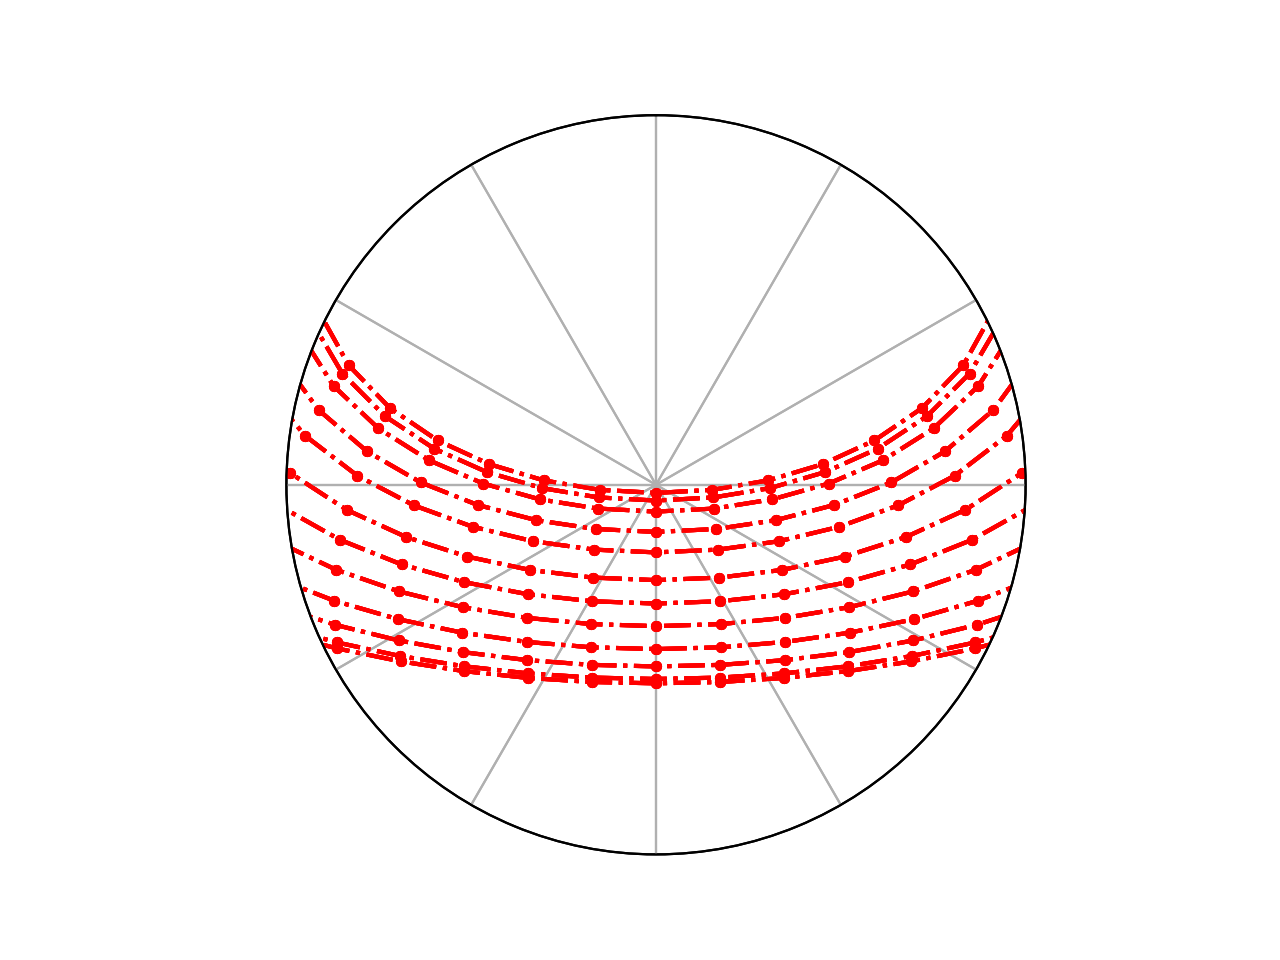
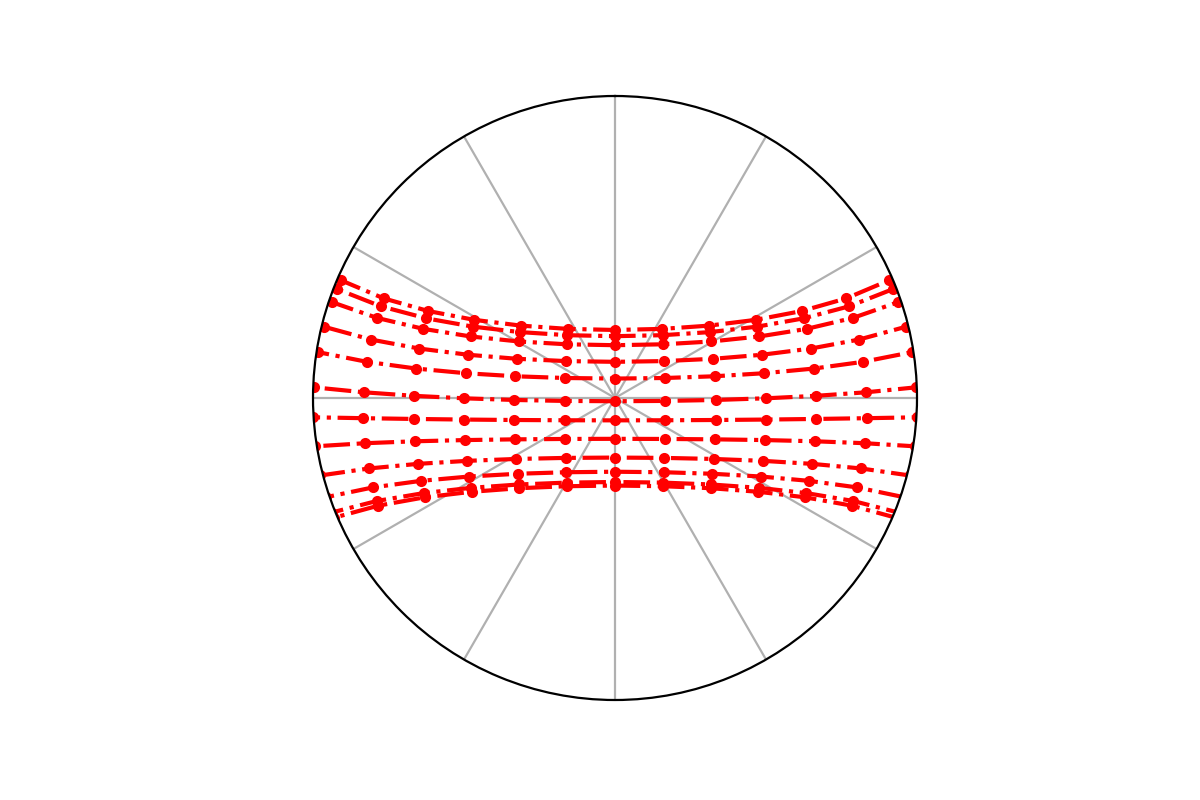
changes to findContours()
expects 3 instead of 2

diff --git a/image_process.py b/image_process.py
@@ -8,7 +8,7 @@ def overlay_graph(route_base,graph):
     graph = image generated of graph at coordinates
     '''
 
-    directory = "C:\\Users\\User\\Documents\\GitHub\\Solar_Path_App\\test_pics"
+    directory = r'C:\Users\Iz\Desktop\Solar_Path_App\test_pics'
     os.chdir(directory)
 
     img = cv2.imread(route_base,1)
@@ -20,8 +20,7 @@ def overlay_graph(route_base,graph):
     # convert the grayscale image to binary image
     ret,thresh = cv2.threshold(gray_image,50,255,cv2.CV_8UC1)
     # cv2.imshow("Thresh image",thresh)
-
-    contours, heirarchy = cv2.findContours(thresh,cv2.RETR_EXTERNAL,cv2.CHAIN_APPROX_NONE)
+    _,contours,heirarchy = cv2.findContours(thresh,cv2.RETR_EXTERNAL,cv2.CHAIN_APPROX_NONE)
     max_countour = contours[0]
     for i in range(1,len(contours)):
         if cv2.contourArea(contours[i]) > cv2.contourArea(max_countour):
@@ -36,7 +35,7 @@ def overlay_graph(route_base,graph):
     
     w, h = im2.size
     
-    mf = (radius / 370)
+    mf = (radius / 300)
     
     im2_large = im2.resize((int(w * mf),int(h * mf)))
     
@@ -63,5 +62,6 @@ def overlay_graph(route_base,graph):
     im1.paste(im2_large,center_int,mask=im2_large)
 
     # cv2.imwrite("Centre_skye.jpg",img)
-    im1.save("C:\\Users\\User\\Documents\\GitHub\\Solar_Path_App\\test_pics\\combined.png")
+    # im1.save("C:\\Users\\User\\Documents\\GitHub\\Solar_Path_App\\test_pics\\combined.png")
     # cv2.waitKey(0)
+    im1.show()

diff --git a/working.py b/working.py
@@ -1,10 +1,10 @@
 from image_process import overlay_graph
 from graph_maker import make_graph
 
-path_of_fish = r"C:\Users\User\Documents\GitHub\Solar_Path_App\test_pics\blob2.jpg"
-path_of_graph = r'C:\Users\User\Documents\GitHub\Solar_Path_App\test_pics\graphed.png'
+path_of_fish = r"C:\Users\Iz\Desktop\Solar_Path_App\test_pics\blob2.jpg"
+path_of_graph = r'C:\Users\Iz\Desktop\Solar_Path_App\test_pics\graphed.png'
 
-make_graph(25.251,101.34)
+make_graph(3,101)
 
 
 overlay_graph(path_of_fish,path_of_graph)

diff --git a/graph_maker.py b/graph_maker.py
@@ -136,6 +136,6 @@ def make_graph(latitude, longitude):
     
     y_axis = fig.axes.get_yaxis()
     y_axis.set_visible(False)
-    plt.savefig(r'C:\Users\User\Documents\GitHub\Solar_Path_App\test_pics\graphed.png',transparent=True,dpi=200)
+    plt.savefig(r'C:\Users\Iz\Desktop\Solar_Path_App\test_pics\graphed.png',transparent=True,dpi=200)
 
-make_graph(25.251,101.34)
+
